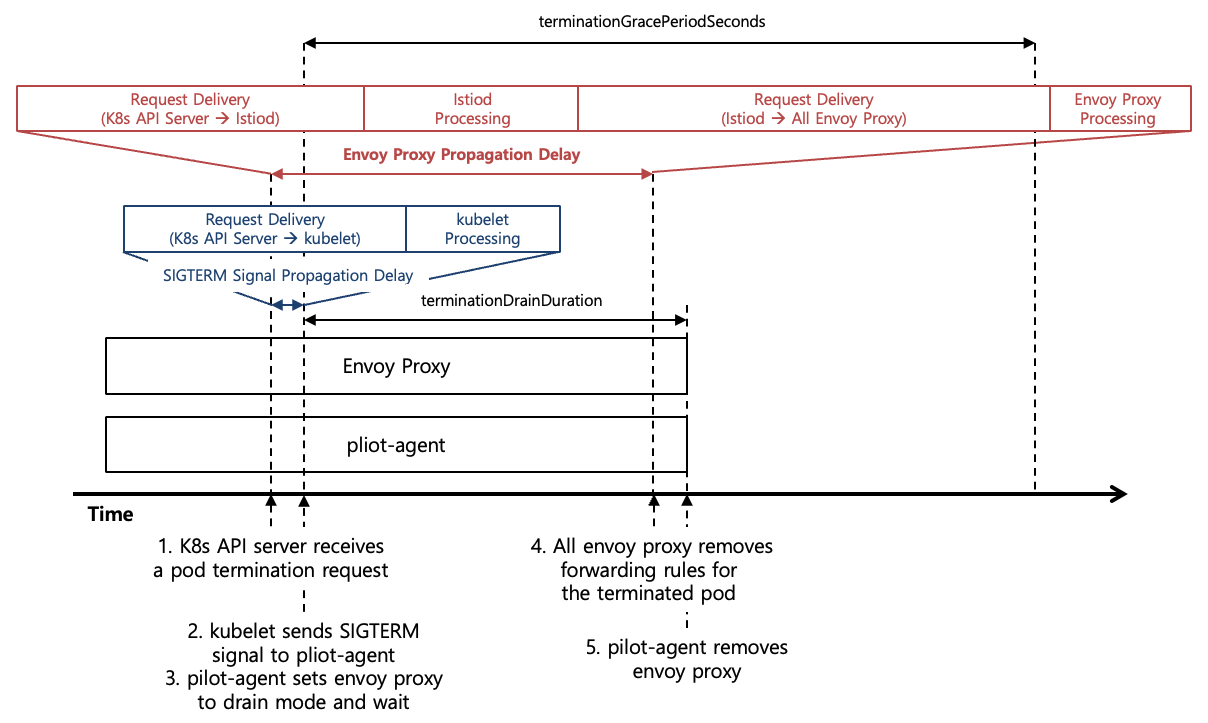
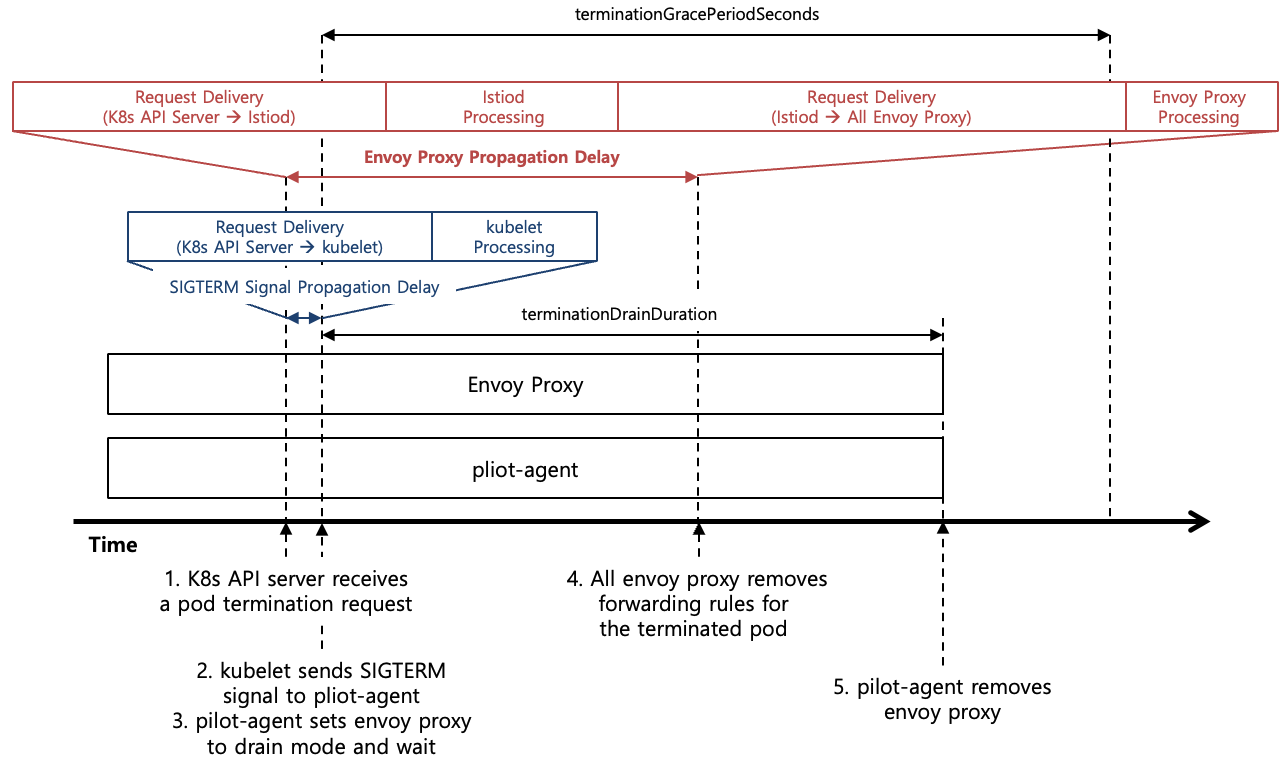
update

diff --git a/content/docs/theory-analysis/istio-pod-gracefully-termination/index.md b/content/docs/theory-analysis/istio-pod-gracefully-termination/index.md
@@ -6,7 +6,7 @@ title: Istio Pod Gracefully Termination
 
 {{< figure caption="[Figure 1] Istio Pod Component" src="images/istio-app-pod-component.png" width="600px" >}}
 
-[Figure 1]은 Istio 환경에서의 App Pod의 구성 요소를 나타내고 있다. 크게 App이 동작하는 App Container와 App Container이 송수신하는 모든 Traffic이 거치는 Sidecar Container인 Envoy Proxy Container로 구분할 수 있다. 따라서 Gracefully Termination도 App Container와 Envoy Container를 나누어 고려해야 한다.
+[Figure 1]은 Istio 환경에서의 App Pod의 구성 요소를 나타내고 있다. 크게 App이 동작하는 **App Container**와 App Container이 송수신하는 모든 Traffic이 거치는 Sidecar Container인 **Envoy Proxy Container**로 구분할 수 있다. 따라서 Gracefully Termination도 App Container와 Envoy Proxy Container를 나누어 고려해야 한다.
 
 ### 1.1. App Container Gracefully Termination
 
@@ -30,11 +30,11 @@ Envoy Proxy Container의 Termination 수행 과정은 `EXIT_ON_ZERO_ACTIVE_CONNE
 
 {{< figure caption="[Figure 3] Envoy Proxy Container Termination with terminationDrainDuration" src="images/istio-envoy-container-termination-with-terminationdrainduration.png" width="1000px" >}}
 
-[Figure 3]은 `EXIT_ON_ZERO_ACTIVE_CONNECTIONS`이 설정되지 않은, 즉 `terminationDrainDuration` 설정값에 따라서 Enovy Proxy가 종료되는 과정을 나타내고 있다. `SIGTERM` Signal을 받은 pilot-agents는 Envoy Proxy를 Drain Mode로 전환하며, 전환한 이후에는 Istio의 `terminationDrainDuration` 설정값 만큼 대기하며 Envoy Proxy를 종료하고 자기 자신을 종료시킨다. pilot-agents가 종료되면 Envoy Proxy Container가 제거된다. 여기서 중요한 점은 pilot-agents가 Envoy Proxy를 Drain Mode로 전환한 이후에 반드시 `terminationDrainDuration` 설정값 만큼 대기한 다음에 Envoy Proxy를 종료한다는 점이다.
+[Figure 3]은 `EXIT_ON_ZERO_ACTIVE_CONNECTIONS`이 설정되지 않은, 즉 `terminationDrainDuration` 설정값에 따라서 Enovy Proxy가 Gracefully Termination을 수행하는 과정을 나타내고 있다. `SIGTERM` Signal을 받은 pilot-agents는 Envoy Proxy를 **Drain Mode**로 전환하며, 전환한 이후에는 Istio의 `terminationDrainDuration` 설정값 만큼 대기하며 Envoy Proxy를 종료하고 자기 자신을 종료시킨다. pilot-agents가 종료되면 Envoy Proxy Container가 제거된다. 여기서 중요한 점은 pilot-agents가 Envoy Proxy를 Drain Mode로 전환한 이후에 반드시 `terminationDrainDuration` 설정값 만큼 대기한 다음에 Envoy Proxy를 종료한다는 점이다.
 
 이는 Drain Mode로 진입한 Envoy가 `terminationDrainDuration` 시간 이전에 모든 Request를 처리하였어도 `terminationDrainDuration` 설정값 만큼 반드시 대기한 다음 종료가 된다는 것을 의미한다. 따라서 `terminationDrainDuration` 시간이 너무 길어도 Envoy Proxy Container의 종료 시간이 늦어지게 된다. 반대로 Envoy가 `terminationDrainDuration` 시간 이후에도 처리하지 못한 Request가 존재한다면, 해당 Request를 처리하지 못하고 종료된다. 따라서 적절한 `terminationDrainDuration` 설정값이 필요하다.
 
-Envoy Proxy는 Drain Mode에 진입해도 신규 Request를 계속해서 처리가 가능하다. 이는 Envoy Proxy Propagation Delay 발생으로 인해서 신규 Request가 늦게 도착해도 문제없이 처리가 가능하도록 만든다. App Container와 다르게 Envoy Proxy Container에는 preStop이 존재하지 않는 이유기도 하다. `terminationDrainDuration` 값 이상으로 Pod의 `terminationGracePeriodSeconds` 값도 같이 설정해야 Envoy Proxy가 `SIGKILL` Signal에 의해서 강제로 제거되지 않는다.
+Envoy Proxy는 Drain Mode에 진입해도 신규 Request를 계속해서 처리가 가능하다. 이는 [Figure 3]에 나타낸 **Envoy Proxy Propagation Delay** 발생으로 인해서 신규 Request가 늦게 도착해도 문제없이 처리가 가능하도록 만든다. App Container와 다르게 Envoy Proxy Container에는 preStop이 존재하지 않는 이유기도 하다. Pod의 `terminationGracePeriodSeconds` 값은 반드시 `terminationDrainDuration` 값 이상으로 설정해야 한다. 그렇지 않으면 Envoy Proxy가 `terminationDrainDuration` 시간만큼 대기하지 못하고 Pod의 `terminationGracePeriodSeconds`에 의해서 `SIGKILL` Signal에 의해서 강제로 종료되기 때문이다.
 
 ```yaml {caption="[File 1] terminationDrainDuration Configuration on IstioOperator", linenos=table}
 apiVersion: install.istio.io/v1alpha1
@@ -56,7 +56,7 @@ spec:
 ...
 ```
 
-[File 1]은 `terminationDrainDuration` 설정값을 전역으로 30초로 설정하기 위한 IstioOperator를 나타내고 있으며, [File 2]는 특정 Pod에만 30초로 설정하기 위한 Annotation 예제를 나타내고 있다. `terminationDrainDuration`를 별도로 설정하지 않으면 기본값인 **5초**로 설정이 된다.
+`terminationDrainDuration` 값은 전역으로 설정하는 방법과 각 Pod별로 설정하는 방법 모두 존재한다. [File 1]은 전역으로 `terminationDrainDuration` 설정값을 30초로 설정하기 위한 IstioOperator를 나타내고 있으며, [File 2]는 특정 Pod에만 30초로 설정하기 위한 Annotation 예제를 나타내고 있다. `terminationDrainDuration`를 별도로 설정하지 않으면 기본값인 **5초**로 설정이 된다.
 
 ```text {caption="[Log 1] Envoy Proxy Termination Log with terminationDrainDuration", linenos=table}
 2025-01-06T15:53:11.767769Z     info    Status server has successfully terminated
@@ -76,9 +76,9 @@ spec:
 
 #### 1.2.2. EXIT_ON_ZERO_ACTIVE_CONNECTIONS
 
-{{< figure caption="[Figure 4] Envoy Proxy Container Termination with terminationDrainDuration" src="images/istio-envoy-container-termination-with-terminationdrainduration.png" width="1000px" >}}
+{{< figure caption="[Figure 4] Envoy Proxy Container Termination with EXIT_ON_ZERO_ACTIVE_CONNECTIONS" src="images/istio-envoy-container-termination-with-zeroactiveconnections.png" width="1000px" >}}
 
-[Figure 4]는 `EXIT_ON_ZERO_ACTIVE_CONNECTIONS`이 설정된 Envoy Proxy Container의 Termination 수행 과정을 나타내고 있다. `SIGTERM` Signal을 받은 pilot-agent는 곧바로 Envoy Proxy를 Drain Mode로 전환하고 `MINIMUM_DRAIN_DURATION` 설정값의 시간만큼 대기한다. 이후에 Envoy Proxy의 모든 Connection이 종료될때까지 대기하다가 모든 Connection이 종료되면 Envoy Proxy를 종료하고 자기 자신을 종료한다. pilot-agents가 종료되면 Envoy Proxy Container가 제거된다.
+[Figure 4]는 `EXIT_ON_ZERO_ACTIVE_CONNECTIONS`이 설정된 Envoy Proxy Container의 Termination 수행 과정을 나타내고 있다. `SIGTERM` Signal을 받은 pilot-agent는 곧바로 Envoy Proxy를 **Drain Mode**로 전환하고 `MINIMUM_DRAIN_DURATION` 설정값의 시간만큼 대기한다. 이후에 Envoy Proxy의 모든 Connection이 종료될때까지 대기하다가 모든 Connection이 종료되면 Envoy Proxy를 종료하고 자기 자신을 종료한다. pilot-agents가 종료되면 Envoy Proxy Container가 제거된다.
 
 `EXIT_ON_ZERO_ACTIVE_CONNECTIONS`이 설정되면 `terminationDrainDuration` 설정값은 무시된다. `terminationDrainDuration` 설정값으로 종료될때와 동일하게 Drain Mode에 진입한 Envoy Proxy는 신규 Request를 계속해서 처리가 가능하며, 이로 인해서 Envoy Proxy Container에는 preStop이 존재하지 않는다. `terminationGracePeriodSeconds` 값도 같이 크게 설정해야 Envoy Proxy가 `SIGKILL` Signal에 의해서 강제로 제거되지 않는다.
 
@@ -107,7 +107,7 @@ spec:
 ...
 ```
 
-[File 3]은 `EXIT_ON_ZERO_ACTIVE_CONNECTIONS`를 설정하고 `MINIMUM_DRAIN_DURATION` 설정값을 전역으로 15초로 설정하기 위한 IstioOperator를 나타내고 있으며, [File 4]는 동일한 설정을 특정 Pod에만 적용하기 위한 Annotation 예제를 나타내고 있다. `MINIMUM_DRAIN_DURATION`를 별도로 설정하지 않으면 기본값인 **5초**로 설정이 된다.
+`EXIT_ON_ZERO_ACTIVE_CONNECTIONS`와 `MINIMUM_DRAIN_DURATION` 값은 전역으로 설정하는 방법과 각 Pod별로 설정하는 방법 모로 존재한다. [File 3]은 전역으로 `EXIT_ON_ZERO_ACTIVE_CONNECTIONS`를 설정하고 `MINIMUM_DRAIN_DURATION` 설정값을 15초로 설정하기 위한 IstioOperator를 나타내고 있으며, [File 4]는 동일한 설정을 특정 Pod에만 적용하기 위한 Annotation 예제를 나타내고 있다. `MINIMUM_DRAIN_DURATION`를 별도로 설정하지 않으면 기본값인 **5초**로 설정이 된다.
 
 ```text {caption="[Log 2] Envoy Proxy Termination Log with EXIT_ON_ZERO_ACTIVE_CONNECTIONS", linenos=table}
 2025-01-06T18:27:37.713164Z     info    Status server has successfully terminated
